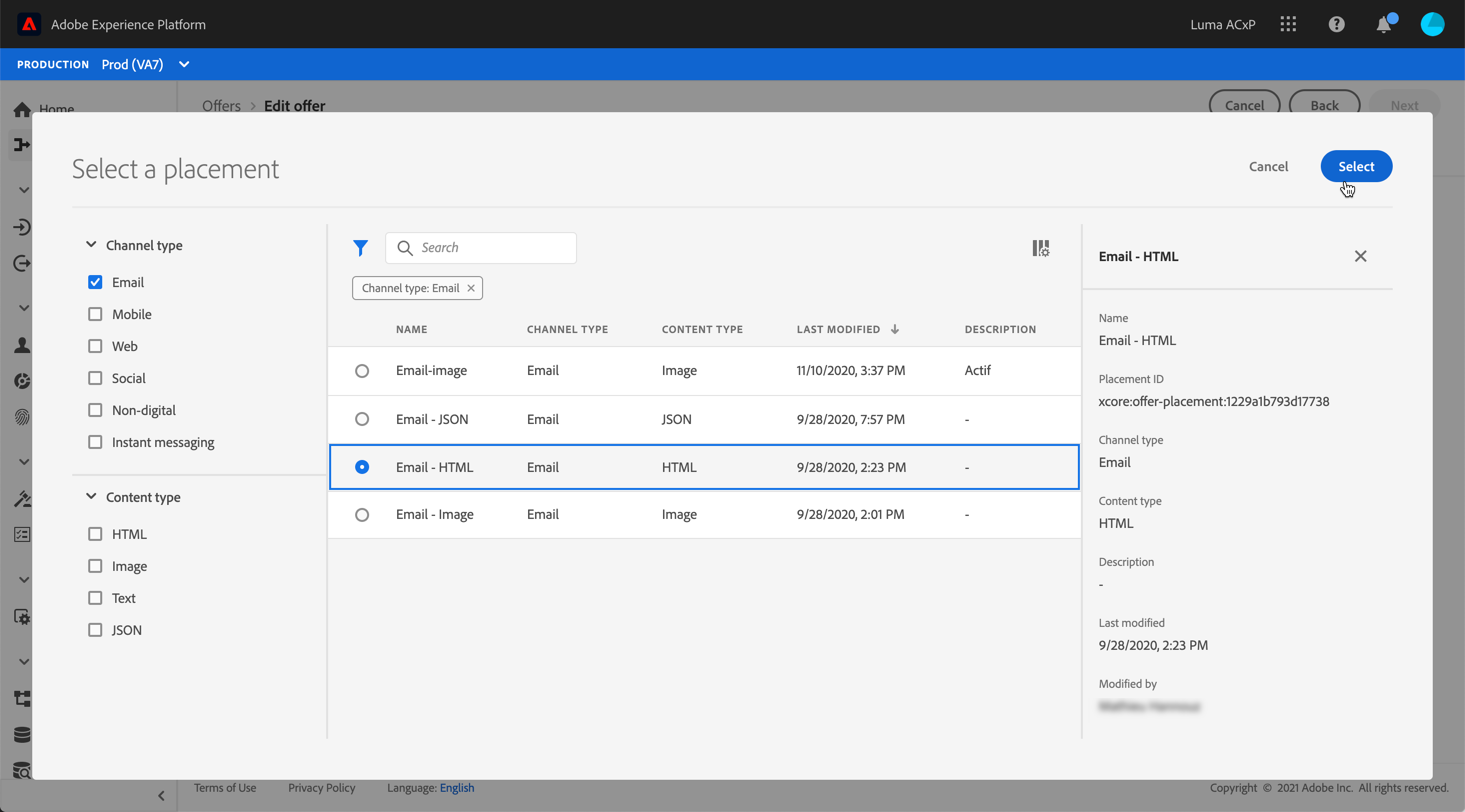
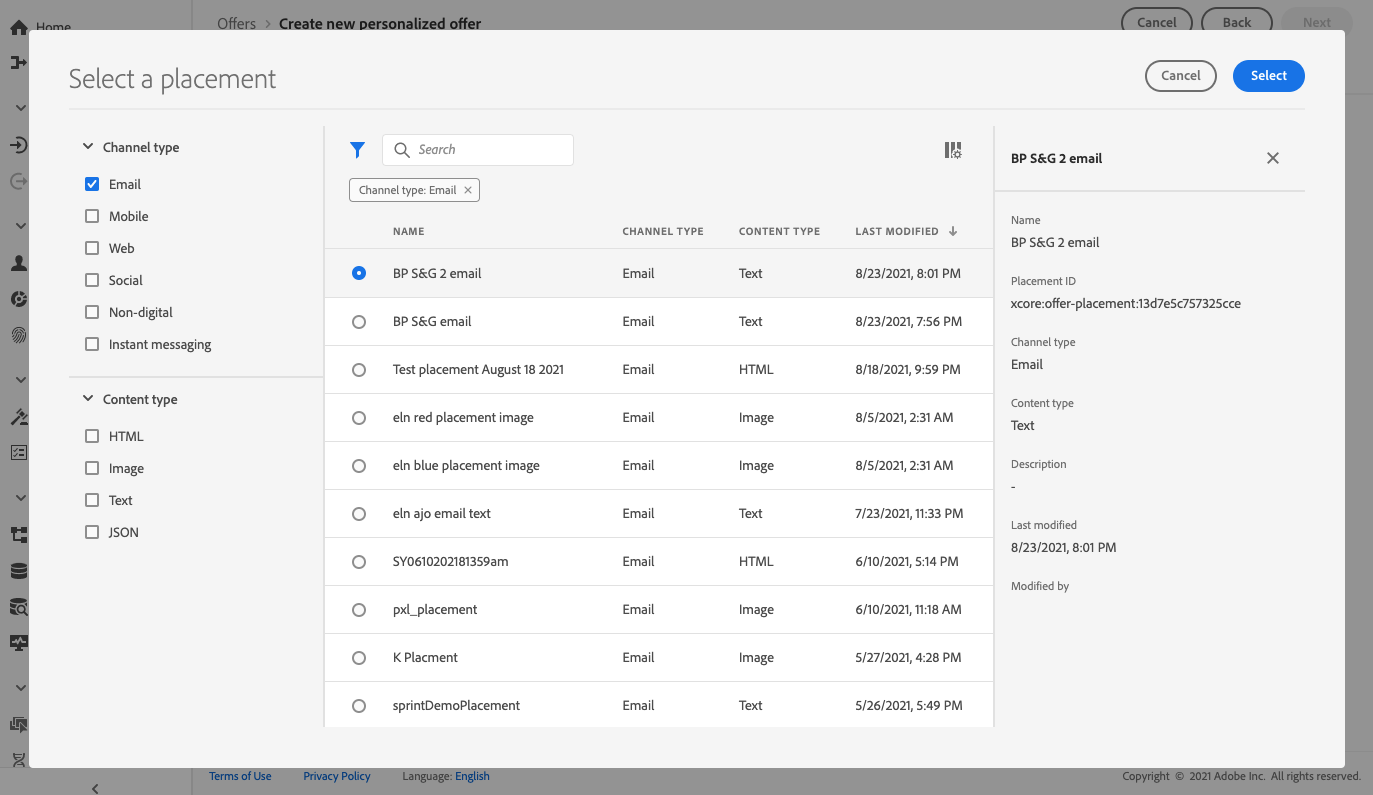
representation flow updates (draft in progress)

diff --git a/help/offer-library/creating-personalized-offers.md b/help/offer-library/creating-personalized-offers.md
@@ -54,27 +54,43 @@ To create an **offer**, follow these steps:
 
 1. For each representation, specify the **[!UICONTROL Channel]** and the **[!UICONTROL Placement]** where the offer will be displayed.
 
-    ![](../assets/channel-placement.png)     
+    ![](../assets/channel-placement.png)
 
     The **[!UICONTROL Browse]** button allows you to filter available placements and filter them according to their channel and/or content type.
     
-    ![](../assets/browse-placements.png)  
+    ![](../assets/browse-button-placements.png)
 
-1. Add content to each representation coming from Adobe Experience Cloud Assets library or from an external public location.
+    ![](../assets/browse-placements.png)
 
-    * To add content from Adobe Experience Cloud Assets library, drag and drop it from the left pane into the representation area, then specify the URL to associate with the content in the **[!UICONTROL Destination link]** field.
+1. Add content to each representation.
 
-        >[!NOTE]
-        >
-        >Contents can only be dragged and dropped from the Asset Picker in the left panel. Only content corresponding to the placement's content type is available for use.
+    * If the selected placement is of image-type, you can add content coming from the Adobe Experience Cloud Assets library or from an external public location.
 
-        ![](../assets/offer_drag_content.png)
+        * To add content from the Adobe Experience Cloud Assets library, browse the library to select the image of your choice.
 
-    * To add content from an external public location, click the **[!UICONTROL Add content]** button, then specify the name, URL, and Destination link of the content to add.
+            ![](../assets/offer-browse-asset-library.png)
 
-        Make sure that the content you are adding corresponds to the selected placement's content type.
+            ![](../assets/offer-select-asset.png)     
+            
+            Then specify the URL to associate with the content in the **[!UICONTROL Destination link]** field.
 
-        ![](../assets/offer_add_content.png)
+            >[!NOTE]
+            >
+            > To work with [!DNL Adobe Experience Manager Assets Essentials], you will need to deploy [!DNL Assets Essentials] for your organization and make sure that users, who need access to [!DNL Assets Essentials], are a part of the **Assets Essentials Consumer Users** or/and **Assets Essentials Users** Product profiles. <br> For more information on this, refer to this [page](https://experienceleague.adobe.com/docs/experience-manager-assets-essentials/help/deploy-administer.html){target="_blank"}.
+
+            >[!NOTE]
+            >
+            ><!--Contents can only be dragged and dropped from the Asset Picker in the left panel.--> Only content corresponding to the placement's content type is available for use.
+
+            <!--![](../assets/offer_drag_content.png)-->
+
+            You can specify a **[!UICONTROL Destination link]**, either copying the Public location, either entering an URL in the corresponding field.
+            
+        * To add content from an external public location, select **[!UICONTROL URL]**, then specify the URL (and Destination link) of the content to add.
+
+            Make sure that the content you are adding corresponds to the selected placement's content type.
+
+            ![](../assets/offer_add_content.png)
 
     * You can also insert text-type content. To do this, click the **[!UICONTROL Add content]** button, then select the **[!UICONTROL Custom text]** option. In the **[!UICONTROL Text]** field, type the text that will display in the offer.
 
